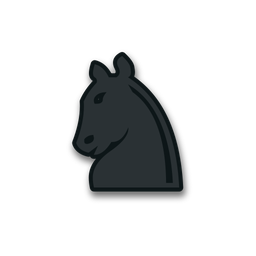
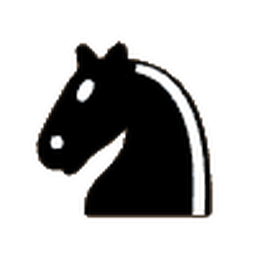
Update Chess Study website files

diff --git a/style.css b/style.css
@@ -1,1 +1,12 @@
 *{box-sizing:border-box}body{margin:0;background:#0d1119;color:#e9edf6;font:14px system-ui,-apple-system,Segoe UI,sans-serif}header{height:70px;border-bottom:1px solid #283142;display:flex;align-items:center;justify-content:space-between;padding:0 30px;background:#141a25}.logo{display:flex;align-items:center;gap:10px;font-size:25px;font-weight:900}.logo span{font-size:18px;letter-spacing:1px}.logo small{font-size:10px;letter-spacing:2px;color:#7f91ac;margin-left:14px}.accent{color:#70e3bf}.header-right{display:flex;gap:16px;align-items:center}.status{color:#f3ad74}.status.ok{color:#70e3bf}.chip{background:#252f40;border:1px solid #364358;border-radius:9px;padding:6px 10px;font-size:11px;color:#9aaec7}main{max-width:1900px;margin:auto;display:grid;grid-template-columns:minmax(255px,300px) minmax(390px,680px) minmax(300px,440px);justify-content:center;gap:16px;padding:20px}.panel{background:#191f2b;border:1px solid #2b3545;border-radius:15px;box-shadow:0 8px 35px #080c1466}.left,.right{padding:20px;align-self:start}.left h2,.right h2{font-size:16px;margin:4px 0 12px}.sub{color:#9aa8bc;line-height:1.55}.small{font-size:11px}label{display:block;color:#bdc9d9;font-size:12px;font-weight:700;margin:20px 0 8px}input:not([type=range]),textarea{display:block;width:100%;background:#101621;border:1px solid #3b475b;color:#fff;border-radius:8px;padding:12px;margin-top:8px;font:13px system-ui}input:focus,textarea:focus{outline:2px solid #62c8ad}textarea{height:240px;resize:vertical;font:12px ui-monospace,monospace}input[type=range]{width:100%;accent-color:#66d3b2}button{cursor:pointer;border:1px solid #3b495e;background:#263244;color:#f2f5fb;border-radius:9px;padding:11px 14px;font-weight:700}button:hover{filter:brightness(1.2)}button.primary{width:100%;background:#41b991;border-color:#41b991;color:#081a16}button.secondary{width:100%}.separator{height:1px;background:#334051;margin:24px 0}.error{color:#ff9c91;min-height:18px;line-height:1.5}.summary{display:flex;justify-content:space-between;align-items:center;padding:19px 24px;margin-bottom:15px}.eyebrow{color:#6fe1bc;font-size:10px;font-weight:900;letter-spacing:2px}.summary h1{font-size:21px;margin:8px 0}.summary p{margin:0}.progress{background:#26384a;border-radius:8px;padding:9px 12px;color:#9cc5dc;font-size:11px;font-weight:900}.boardbox{padding:14px}.boardbar{display:flex;justify-content:space-between;padding:7px 4px 12px;color:#b9c7da;font-weight:700}.board{width:100%;aspect-ratio:1;display:grid;grid-template-columns:repeat(8,1fr);border-radius:4px;overflow:hidden}.square{position:relative;display:flex;align-items:center;justify-content:center;min-width:0;min-height:0}.light{background:#e9e4d6}.dark{background:#829b8d}.square.last{box-shadow:inset 0 0 0 999px #ebd95a55}.square img{width:88%;height:88%;object-fit:contain;z-index:1;pointer-events:none}.square .coord{position:absolute;bottom:2px;right:4px;color:#374c55;font-size:10px;font-weight:800}.controls{display:flex;justify-content:center;gap:8px;padding:12px 0 4px}.controls button{min-width:45px}.righthead{display:flex;align-items:center;justify-content:space-between}.stats{display:grid;grid-template-columns:1fr 1fr;gap:10px;margin:18px 0}.stats div{background:#222d3e;border-radius:10px;padding:13px}.stats b{font-size:25px;display:block}.stats small{color:#99a9bc}.moves{height:min(62vh,600px);overflow:auto;display:grid;grid-template-columns:1fr 1fr;align-content:start;gap:7px;padding-right:6px}.move{border:1px solid transparent;background:#283342;border-radius:9px;text-align:left;padding:11px 9px;font-size:12px;display:flex;justify-content:space-between;gap:8px}.move.selected{border-color:#67dbb7;background:#25473e}.move span{white-space:nowrap;overflow:hidden;text-overflow:ellipsis}.move em{font-style:normal;font-size:10px;font-weight:800}.move img{width:18px;height:18px;vertical-align:middle}.move .rating{display:flex;align-items:center;gap:5px}.empty{grid-column:span 2;color:#8797ac;padding:24px 8px;text-align:center}.insight{border-top:1px solid #364255;margin-top:16px;padding-top:18px}.insight h3{margin:10px 0}.insight p{color:#a8b9cc;line-height:1.6}footer{text-align:center;color:#718097;font-size:11px;padding:16px}@media(max-width:1200px){main{grid-template-columns:300px minmax(380px,680px)}.right{grid-column:1/-1}.moves{height:350px}}@media(max-width:740px){main{grid-template-columns:minmax(0,1fr);padding:10px}.right{grid-column:auto}.header-right .chip,.logo small{display:none}.summary h1{font-size:17px}.left{order:2}.center{order:1}.right{order:3}}
+/* v6.9: square chessboard at all viewport widths */
+.center,.boardbox{min-width:0}
+.board{width:100%;height:auto;aspect-ratio:1 / 1;display:grid;grid-template-columns:repeat(8,minmax(0,1fr));grid-template-rows:repeat(8,minmax(0,1fr));overflow:hidden}
+.square{aspect-ratio:1 / 1;width:100%;height:100%;min-width:0;min-height:0;overflow:hidden}
+.square img{width:88%;height:88%;object-fit:contain;filter:drop-shadow(0 1px 1px #0004)}
+@media(min-width:1201px){main{grid-template-columns:minmax(255px,300px) minmax(0,680px) minmax(300px,440px)}}
+
+/* v7.0 reference-matched board and extracted piece artwork */
+.board{aspect-ratio:1 / 1;grid-template-rows:repeat(8,minmax(0,1fr))}
+.square.light{background:#efe3cc}.square.dark{background:#8a6f57}
+.square img{width:90%;height:90%;filter:none}

diff --git a/index.html b/index.html
@@ -1,8 +1,8 @@
-<!doctype html><html lang="en"><head><meta charset="utf-8"><meta name="viewport" content="width=device-width,initial-scale=1"><title>Chess Study · Cloud Review</title><link rel="stylesheet" href="style.css"></head><body>
+<!doctype html><html lang="en"><head><meta charset="utf-8"><meta name="viewport" content="width=device-width,initial-scale=1"><title>Chess Study · Cloud Review</title><link rel="stylesheet" href="style.css?v=69"></head><body>
 <header><div class="logo">♞ <span>CHESS<span class="accent">STUDY</span></span><small>REVIEW LAB</small></div><div class="header-right"><span id="status" class="status">● Not connected</span><span class="chip">Stockfish · Local PC</span></div></header>
 <main><aside class="left panel"><h2>Engine connection</h2><p class="sub">Connect this GitHub Pages interface to Stockfish running on your PC.</p><label>ngrok HTTPS URL<input id="url" placeholder="https://example.ngrok-free.app" autocomplete="off"></label><label>Access token<input id="token" type="password" placeholder="Token from START-SERVER.bat" autocomplete="off"></label><button id="pasteSetup" class="secondary">📋 Paste setup connection</button><button id="connect" class="secondary">Test connection</button><div class="separator"></div><h2>Game import</h2><p class="sub">Paste a PGN from Chess.com or Lichess.</p><textarea id="pgn" spellcheck="false" placeholder="[Event &quot;Play vs Bot&quot;]&#10;1. e4 e5 2. Nf3 Nc6 ..."></textarea><label>Analysis depth <strong id="depthValue">14</strong><input id="depth" type="range" min="8" max="20" value="14"></label><button id="analyze" class="primary">▶ Analyze game</button><p id="error" class="error"></p><p class="sub small">The token is kept in this page's memory only. Do not share your ngrok URL and token publicly.</p></aside>
 <section class="center"><div class="summary panel"><div><span class="eyebrow">GAME REVIEW</span><h1 id="match">Your next great game starts here.</h1><p id="detail" class="sub">Import a game to see every move, evaluations and tactical insights.</p></div><div id="progress" class="progress">READY</div></div>
 <div class="boardbox panel"><div class="boardbar"><span id="blackName">BLACK</span><span id="moveNum">Starting position</span></div><div id="board" class="board" aria-label="Chessboard"></div><div class="boardbar"><span id="whiteName">WHITE</span><span id="evaluation">Eval: —</span></div><div class="controls"><button id="first">|◀</button><button id="prev">◀</button><button id="next">▶</button><button id="last">▶|</button><button id="flip">⇅ Flip</button></div></div></section>
 <aside class="right panel"><div class="righthead"><h2>Move classifications</h2><span class="chip" id="moveCount">0 moves</span></div><div class="stats" id="stats"><div><b>—</b><small>White accuracy</small></div><div><b>—</b><small>Black accuracy</small></div></div><div id="moves" class="moves"><div class="empty">Your analysis will appear here.</div></div><div class="insight"><span class="eyebrow">COACH INSIGHT</span><h3 id="rating">Select a move</h3><p id="explain">Move explanations will appear here after analysis.</p></div></aside></main>
 <footer>Independent chess analysis · Inspired by modern chess review dashboards · Not affiliated with Chess.com or LeoChess · Classification labels are estimates</footer>
-<script src="pgn-import.js"></script><script src="app.js"></script></body></html>
+<script src="pgn-import.js"></script><script src="app.js?v=69"></script></body></html>
